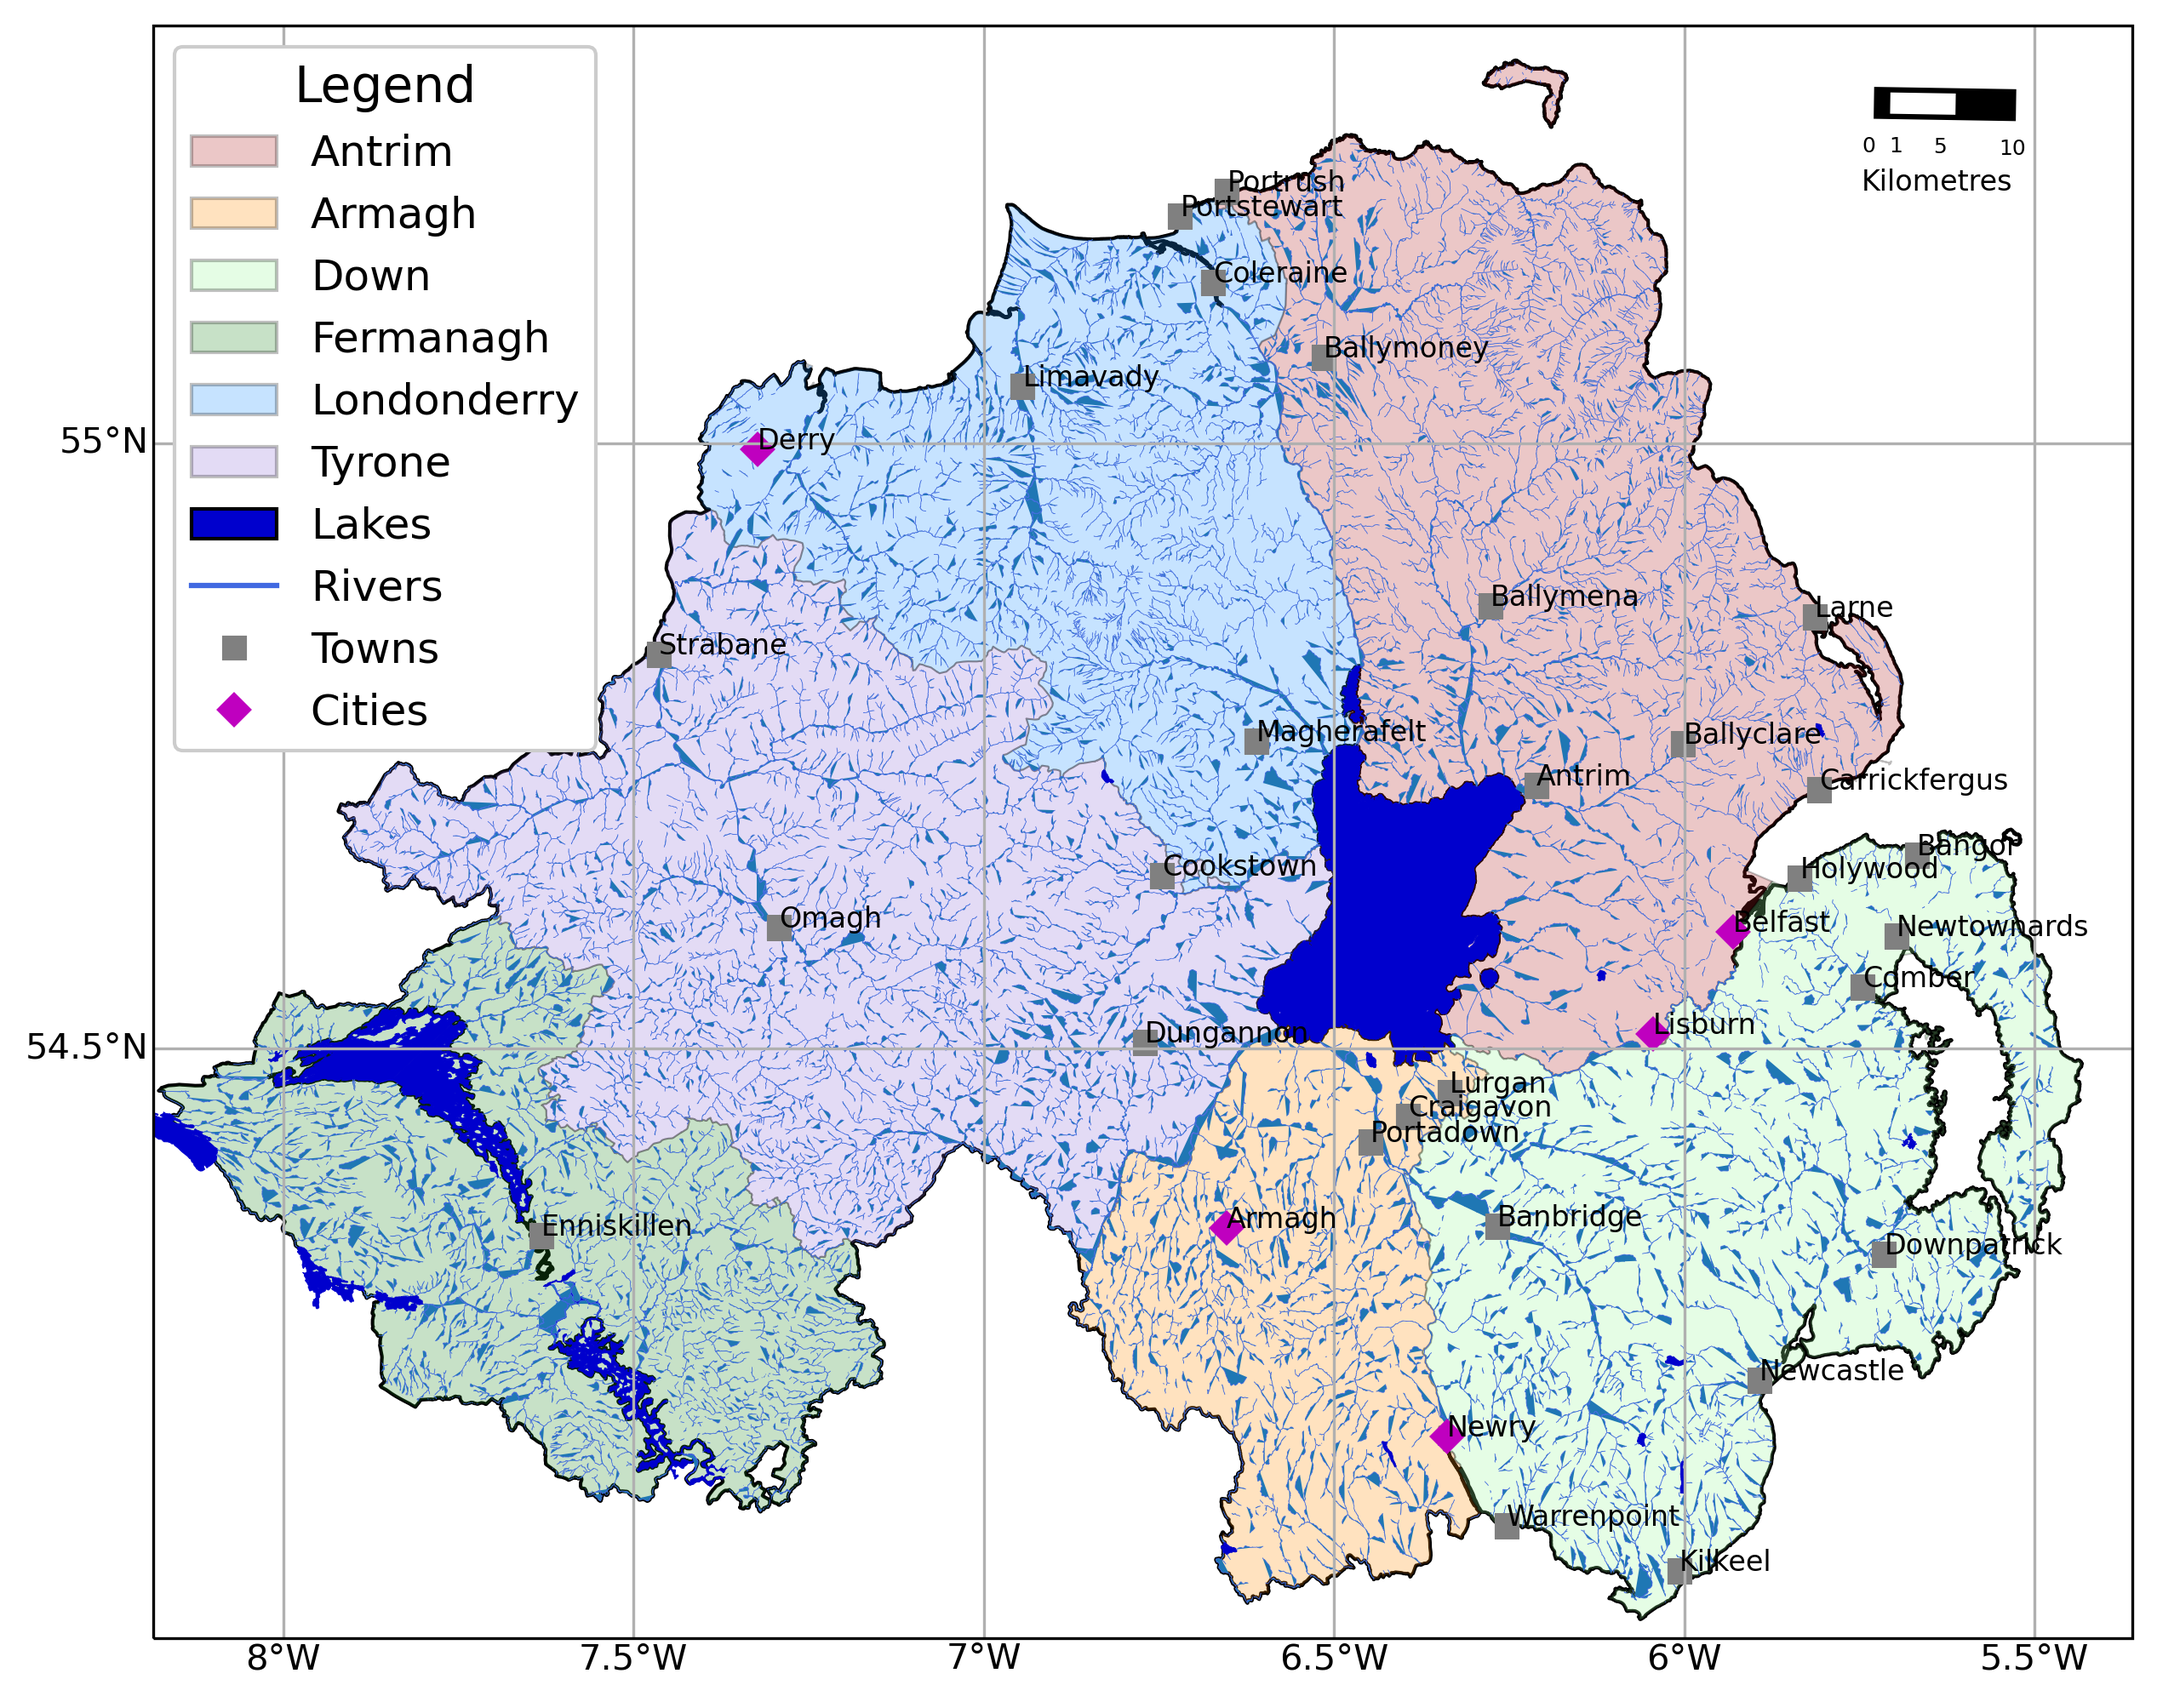
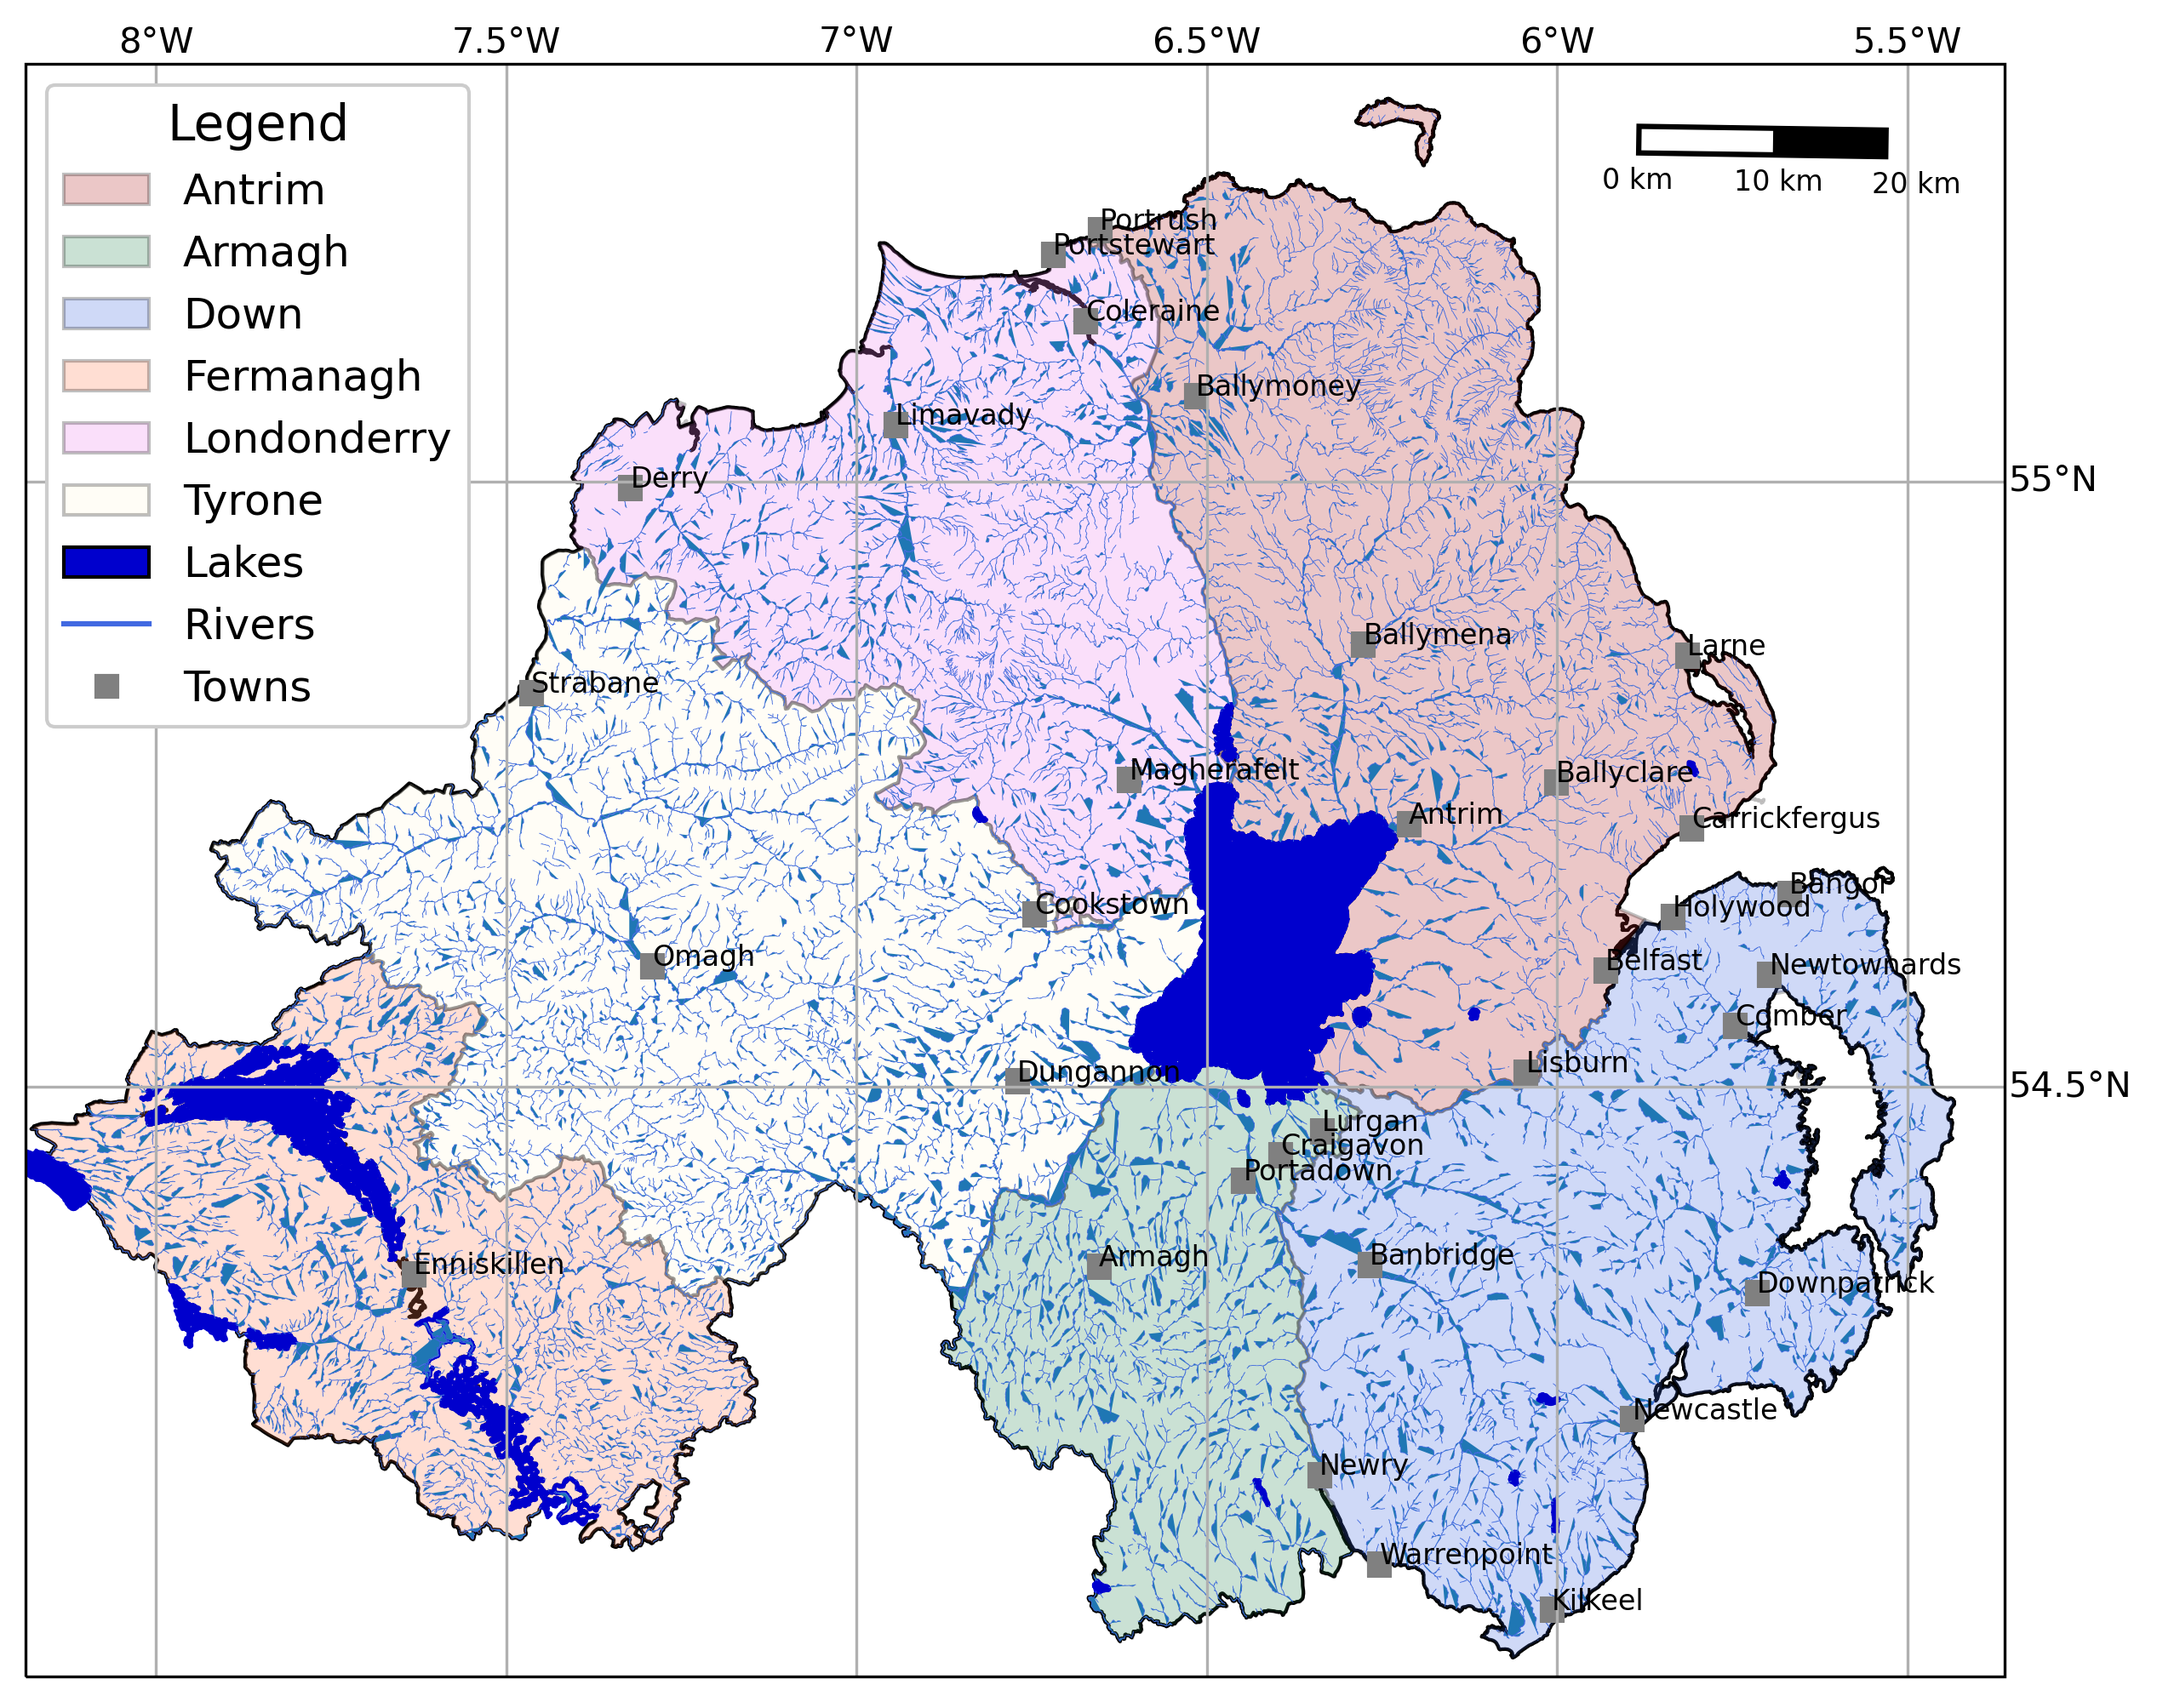
Edits - Exercise script Week 3

diff --git a/Week4/assignment_script.py b/Week4/assignment_script.py
@@ -92,14 +92,49 @@ ax = plt.axes(projection=ccrs.Mercator())  # finally, create an axes object in t
 outline_feature = ShapelyFeature(outline['geometry'], myCRS, edgecolor='k', facecolor='w')
 
 xmin, ymin, xmax, ymax = outline.total_bounds
-ax.add_feature(outline_feature) # add the features we've created to the map.
+#ax.add_feature(outline_feature) # add the features we've created to the map.
 
 # using the boundary of the shapefile features, zoom the map to our area of interest
 ax.set_extent([xmin, xmax, ymin, ymax], crs=myCRS) # because total_bounds gives output as xmin, ymin, xmax, ymax,
 # but set_extent takes xmin, xmax, ymin, ymax, we re-order the coordinates here.
 
-# pick colors, add features to the map
-county_colors = ['firebrick', 'seagreen', 'royalblue', 'coral', 'violet', 'cornsilk']
+#Add NI image to basemap
+img_display(img, ax, [1,2,3])
 
+# next, add the municipal outlines to the map using the colors that we've picked.
+# here, we're iterating over the list of names we created above
+# we're also setting the edge color to be black, with a line width of 0.5 pt.
+# Feel free to experiment with different colors and line widths.
+county_feat = ShapelyFeature(counties['geometry'], myCRS,
+                    edgecolor='r',
+                    facecolor='none',
+                    linewidth=1,
+                    alpha=1)
+ax.add_feature(county_feat)
 
-img_display(dataset,ax, 1,2,3)
+# ShapelyFeature creates a polygon, so for point data we can just use ax.plot()
+town = towns[towns['town_city'] == 0]
+city = towns[towns['town_city'] == 1]
+
+town_handle = ax.plot(town.geometry.x, town.geometry.y, 's', color='0.5', ms=6, transform=myCRS)
+city_handle = ax.plot(city.geometry.x, city.geometry.y, 'D', color='m', ms=6, transform=myCRS)
+
+# generate a list of handles for the county datasets
+county_handles = generate_handles(counties, colors='none', edge='r', alpha=0)
+
+# ax.legend() takes a list of handles and a list of labels corresponding to the objects you want to add to the legend
+handles = county_handles + town_handle + city_handle
+labels = ['Counties', 'Towns', 'Cities']
+
+leg = ax.legend(handles, labels, title='Legend', title_fontsize=14,
+                 fontsize=12, loc='upper left', frameon=True, framealpha=1)
+
+gridlines = ax.gridlines(draw_labels=True,
+                         xlocs=[-8, -7.5, -7, -6.5, -6, -5.5],
+                         ylocs=[54, 54.5, 55, 55.5])
+
+gridlines.left_labels = False
+gridlines.bottom_labels = False
+ax.set_extent([xmin, xmax, ymin, ymax], crs=myCRS)
+
+myFig.savefig('map.png', bbox_inches='tight', dpi=300)
